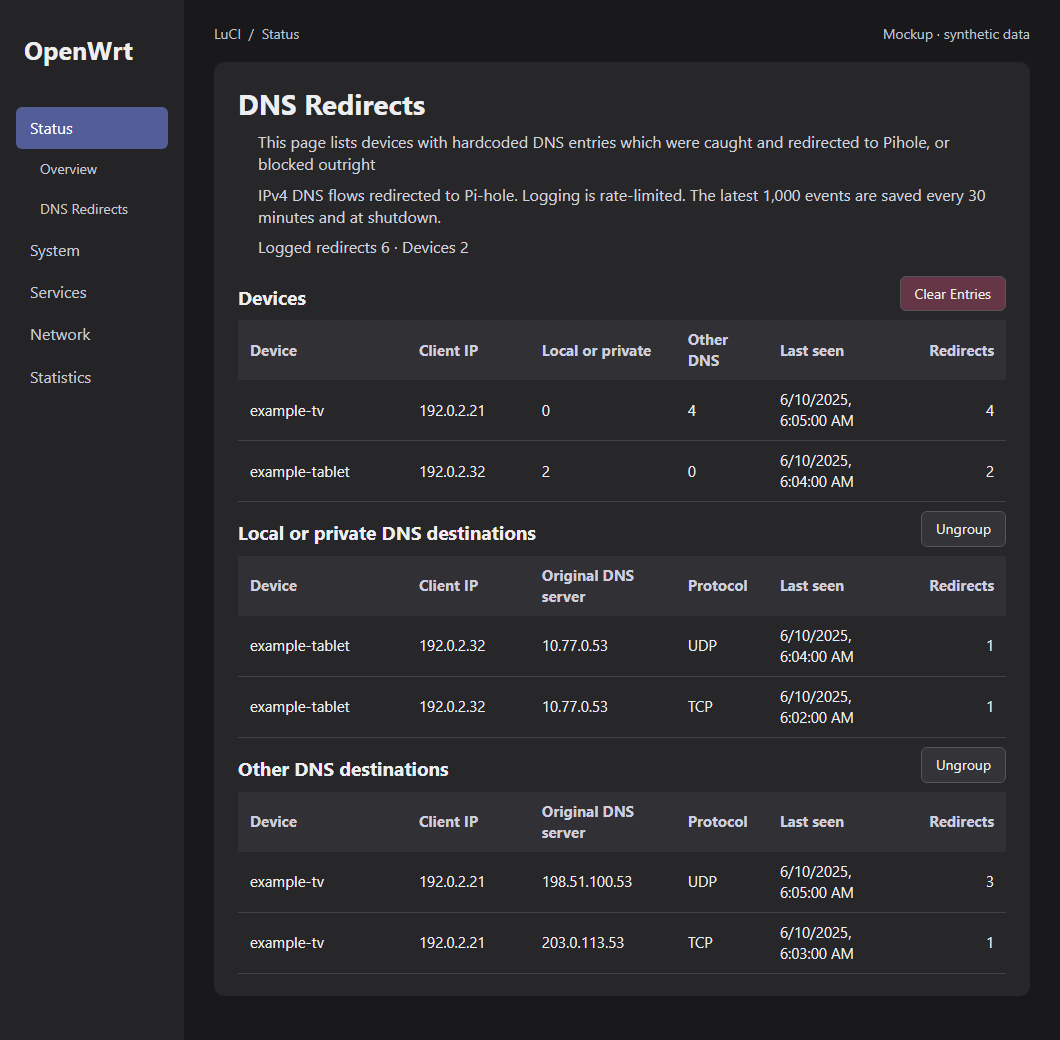
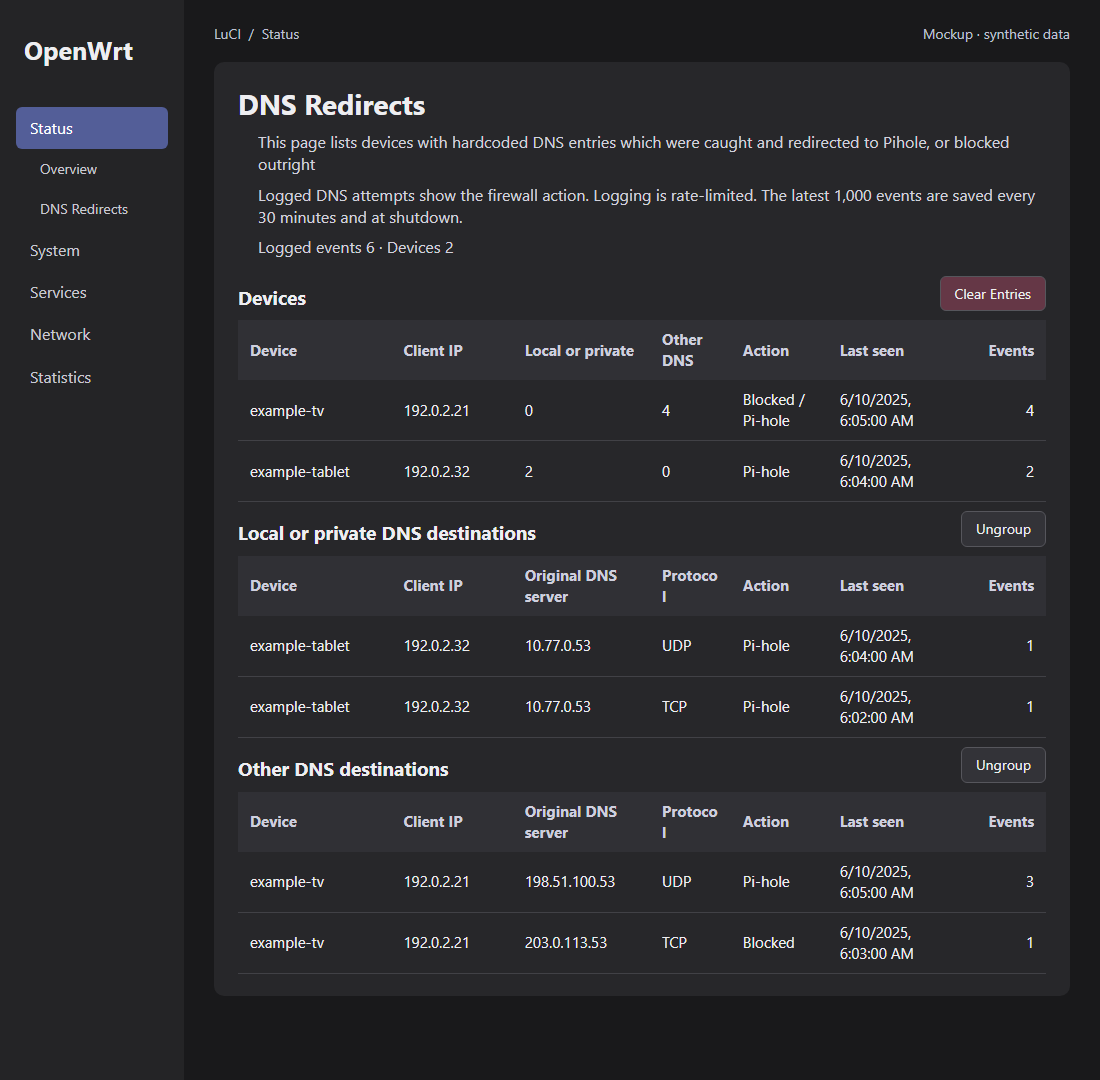
Show DNS redirect and block actions per event and device

diff --git a/argon-tweak/files/www/luci-static/resources/view/status/dns-redirects-layout.js b/argon-tweak/files/www/luci-static/resources/view/status/dns-redirects-layout.js
@@ -12,7 +12,7 @@ const clearHistory = rpc.declare({ object: 'luci.dns_redirects', method: 'clear'
 const headingStyle = 'display: flex; align-items: center; justify-content: space-between; gap: 1em';
 const tableStyle = `
 .dns-redirect-scroll { max-width: 100%; overflow-x: auto; }
-.dns-redirect-scroll table.table { display: table; width: 100%; min-width: 43rem; table-layout: fixed; }
+.dns-redirect-scroll table.table { display: table; width: 100%; min-width: 49rem; table-layout: fixed; }
 .dns-redirect-scroll .table tr { display: table-row; }
 .dns-redirect-scroll .table tr > :is(th, td) { display: table-cell; box-sizing: border-box; text-align: start; white-space: normal; overflow-wrap: anywhere; }
 .dns-redirect-scroll .table tr > :first-child:not([colspan]) { text-align: left !important; }
@@ -21,7 +21,7 @@ const tableStyle = `
 `;
 
 function makeTable(columns) {
-	const widths = ['22%', '16%', '19%', '12%', '19%', '12%'];
+	const widths = ['19%', '15%', '17%', '10%', '12%', '17%', '10%'];
 	return E('table', { 'class': 'table' }, [ E('tr', { 'class': 'tr table-titles' },
 		columns.map((column, i) => E('th', { 'class': 'th', 'scope': 'col', style: 'width:' + widths[i] }, column))) ]);
 }
@@ -31,15 +31,20 @@ function formatTime(time) {
 }
 
 function isLocalDestination(ip) {
+	if (ip.includes(':')) return /^(::1$|f[cd]|fe[89ab])/i.test(ip);
 	const [ first, second ] = ip.split('.').map(Number);
 	return first === 10 || first === 127 || (first === 169 && second === 254) ||
 		(first === 172 && second >= 16 && second <= 31) || (first === 192 && second === 168);
 }
 
+function actionLabel(action) {
+	return action === 'pihole' ? _('Pi-hole') : action === 'blocked' ? _('Blocked') : '—';
+}
+
 function redirectSection(title, names) {
-	const columns = [ _('Device'), _('Client IP'), _('Original DNS server'), _('Protocol') ];
-	const individual = makeTable([ ...columns, _('Time'), _('Redirects') ]);
-	const grouped = makeTable([ ...columns, _('Last seen'), _('Redirects') ]);
+	const columns = [ _('Device'), _('Client IP'), _('Original DNS server'), _('Protocol'), _('Action') ];
+	const individual = makeTable([ ...columns, _('Time'), _('Events') ]);
+	const grouped = makeTable([ ...columns, _('Last seen'), _('Events') ]);
 	const individualBody = E('div', { class: 'dns-redirect-scroll' }, [ individual ]);
 	const groupedBody = E('div', { class: 'dns-redirect-scroll' }, [ grouped ]);
 	groupedBody.hidden = true;
@@ -50,13 +55,13 @@ function redirectSection(title, names) {
 		const table = groupedBody.hidden ? individual : grouped;
 		const rowsToDisplay = [];
 		const groups = new Map();
-		for (const [ time, client, server, protocol ] of rows) {
-			const key = [ client, server, protocol ].join(' ');
+		for (const [ time, client, server, protocol, action ] of rows) {
+			const key = [ client, server, protocol, action ].join(' ');
 			if (table === grouped && groups.has(key)) {
-				groups.get(key)[5]++;
+				groups.get(key)[6]++;
 				continue;
 			}
-			const row = [ E('span', {}, names.get(client) || client), client, server, protocol, formatTime(time), 1 ];
+			const row = [ E('span', {}, names.get(client) || client), client, server, protocol, actionLabel(action), formatTime(time), 1 ];
 			if (table === grouped) {
 				groups.set(key, row);
 			}
@@ -129,7 +134,7 @@ return view.extend({
 					names.set(ip, hint.name);
 		}
 
-		const devices = makeTable([ _('Device'), _('Client IP'), _('Local or private'), _('Other DNS'), _('Last seen'), _('Redirects') ]);
+		const devices = makeTable([ _('Device'), _('Client IP'), _('Local or private'), _('Other DNS'), _('Action'), _('Last seen'), _('Events') ]);
 		const localEvents = redirectSection(_('Local or private DNS destinations'), names);
 		const otherEvents = redirectSection(_('Other DNS destinations'), names);
 		const status = E('p', { 'role': 'status' }, _('Loading redirect history…'));
@@ -147,11 +152,12 @@ return view.extend({
 
 			const entries = history.entries ? history.entries.split('\n').map(line => line.split('\t')) : [];
 			const byDevice = new Map();
-			for (const [ time, client, server ] of entries) {
+			for (const [ time, client, server, , action ] of entries) {
 				if (!byDevice.has(client))
-					byDevice.set(client, { count: 0, local: 0, last: 0 });
+					byDevice.set(client, { count: 0, local: 0, last: 0, actions: new Set() });
 				const device = byDevice.get(client);
 				device.count++;
+				device.actions.add(actionLabel(action));
 				if (isLocalDestination(server))
 					device.local++;
 				device.last = Math.max(device.last, Number(time));
@@ -169,7 +175,7 @@ return view.extend({
 
 			const ordered = Array.from(byDevice.entries()).sort((a, b) => b[1].count - a[1].count || b[1].last - a[1].last);
 			cbi_update_table(devices, ordered.map(([ ip, stats ]) => [
-				E('span', {}, names.get(ip) || ip), ip, stats.local, stats.count - stats.local, formatTime(stats.last), stats.count
+				E('span', {}, names.get(ip) || ip), ip, stats.local, stats.count - stats.local, [...stats.actions].sort().join(' / '), formatTime(stats.last), stats.count
 			]), empty.cloneNode(true));
 			const localRows = [], otherRows = [];
 			for (const entry of entries.reverse()) {
@@ -178,7 +184,7 @@ return view.extend({
 			}
 			localEvents.update(localRows);
 			otherEvents.update(otherRows);
-			dom.content(status, _('Logged redirects') + ' ' + entries.length + ' · ' + _('Devices') + ' ' + byDevice.size);
+			dom.content(status, _('Logged events') + ' ' + entries.length + ' · ' + _('Devices') + ' ' + byDevice.size);
 		}, 5);
 
 		const devicesHeading = E('div', { style: headingStyle }, [
@@ -192,7 +198,7 @@ return view.extend({
 			E('h2', {}, _('DNS Redirects')),
 			E('div', { style: 'padding-inline-start: 1.25rem' }, [
 				E('p', {}, _('This page lists devices with hardcoded DNS entries which were caught and redirected to Pihole, or blocked outright')),
-				E('p', {}, _('IPv4 DNS flows redirected to Pi-hole. Logging is rate-limited. The latest 1,000 events are saved every 30 minutes and at shutdown.')),
+				E('p', {}, _('Logged DNS attempts show the firewall action. Logging is rate-limited. The latest 1,000 events are saved every 30 minutes and at shutdown.')),
 				status
 			]),
 			devicesHeading,

diff --git a/argon-tweak/README.md b/argon-tweak/README.md
@@ -1,6 +1,6 @@
 # luci-theme-argon-tweak installation
 
-Paste the [installation prompt](install-prompt.md) into your LLM assistant to begin. The assistant uses this reference to check compatibility, plan the installation with you and verify the result. Release 3.1.4.3 targets OpenWrt 25.12 LuCI and Argon 3.1.4.
+Paste the [installation prompt](install-prompt.md) into your LLM assistant to begin. The assistant uses this reference to check compatibility, plan the installation with you and verify the result. Release 3.1.4.4 targets OpenWrt 25.12 LuCI and Argon 3.1.4.
 
 When upgrading from an earlier project name, copy your existing overlay settings to `/etc/config/argon-tweak` before installation. Update any existing DNS logging rule to use the prefix in the DNS Redirects section and restart the collector after installation. Fresh installs can skip this step.
 
@@ -29,9 +29,9 @@ Open **Status → Firewall Summary** and select **Refresh** to read the active n
 
 Open **Status → DNS Redirects** to identify clients sending plain DNS to an unexpected resolver. **Devices** shows each client's latest activity and counts for local/private and other DNS destinations. The two event tables show time, device, client IP, original DNS server and TCP or UDP. Use **Group** to combine repeated attempts by client, destination and protocol. **Clear Entries** asks for confirmation and clears saved history as well.
 
-The collector reads tagged IPv4 port 53 firewall events. It records the original destination; the matching firewall rule determines whether the packet was redirected or blocked. For queried domain names and Pi-hole's answer, consult the Pi-hole query log. Encrypted DNS blocks on other ports must be checked in the matching firewall or banIP counters. An empty event table can also mean the client used its assigned resolver, the traffic stayed on the same bridge, or logging was disabled.
+The **Action** column shows **Pi-hole** for a logged DNS redirect and **Blocked** for a logged reject or drop. A device can show both. Grouped rows keep the actions separate even when the client, destination and protocol match. A dash means that the saved event predates action tracking. Use Pi-hole’s query log for domain names and Pi-hole’s own filtering decisions.
 
-To enable history, add a rate-limited log action with the exact prefix `argon-tweak-dns-redirect: ` (including the trailing space) at the point where the original client and destination are still visible, before destination NAT. Apply rate limiting to the **log action only** so all matching packets still reach the enforcement rule. The collector keeps the latest 1,000 logged events and checkpoints every 30 minutes and on clean shutdown. Start it on the router:
+Use the exact log prefix `argon-tweak-dns-redirect: ` on the match leading to Pi-hole destination NAT, and `argon-tweak-dns-block: ` on the match leading to a DNS rejection or drop. Include the trailing space. The collector accepts TCP/UDP port 53 and blocked port 853 events, including IPv6. Apply rate limiting to logging only so every matching packet still reaches the enforcement rule. The collector keeps the latest 1,000 logged events and checkpoints every 30 minutes and on clean shutdown. Start it on the router:
 
 ```sh
 /etc/init.d/dns-redirects enable

diff --git a/argon-tweak/install-prompt.md b/argon-tweak/install-prompt.md
@@ -3,7 +3,7 @@
 Copy the text below into your preferred LLM.
 
 ```text
-Help me install luci-theme-argon-tweak v3.1.4.3. Start here in chat. Use the official release archive at https://api.github.com/repositories/1466932324/tarball/v3.1.4.3 and its argon-tweak/README.md installation reference. Assume Argon is the theme for this setup and its plugin layout audit. First ask me where I can find each item on MY network. Ask a small group of related questions at a time and wait for my answer. If I am unsure, show me a read-only LuCI screen or a narrow local command. Accept "skip" for optional features.
+Help me install luci-theme-argon-tweak v3.1.4.4. Start here in chat. Use the official release archive at https://api.github.com/repositories/1466932324/tarball/v3.1.4.4 and its argon-tweak/README.md installation reference. Assume Argon is the theme for this setup and its plugin layout audit. First ask me where I can find each item on MY network. Ask a small group of related questions at a time and wait for my answer. If I am unsure, show me a read-only LuCI screen or a narrow local command. Accept "skip" for optional features.
 
 1. Where is my router, which OpenWrt, LuCI and Argon versions does it run, and how could I reach it if LuCI went offline?
 2. Where in Network > Interfaces and Devices can I identify WAN, LAN, bridges, VLANs, secondary LANs, VPNs and guests? Which networks share a device and which carry a default route? Confirm any ambiguous roles with me.
@@ -18,7 +18,7 @@ Then ask which DNS protections I want to install. Offer each independently, incl
 - Advertise the approved resolver by DHCP. For clients with hardcoded DNS, redirect both TCP and UDP port 53 or reject external DNS, according to my preference.
 - Block external DNS over TLS on TCP 853 and DNS over QUIC on UDP 853.
 - Install banIP and luci-app-banip if needed and enable an outbound IP feed for known DoH endpoints. Explain the coverage limits and shared-IP tradeoff. Use domain feeds in Pi-hole and IP feeds in banIP.
-- Enable the DNS Redirects collector and rate-limited logging for intercepted IPv4 port 53 traffic.
+- Enable the DNS Redirects collector and rate-limited logging for DNS attempts. Use the guide’s distinct log prefixes for Pi-hole redirects and DNS blocks, and verify the Action column for each policy I selected.
 
 For my choices, confirm the approved resolver, its upstream path, the selected client LANs/VLANs, IPv4/IPv6 use, and VPN or device exceptions. Check whether clients actually send the traffic through this router. Account for the return path to a resolver on the same LAN and preserve its ability to resolve upstream. Check installed packages, the OpenWrt release, firewall backend and available package manager before giving installation commands. Give only the steps for my selections, name the device where each step runs, and provide a rollback for each policy change separately from the overlay rollback.
 

diff --git a/README.md b/README.md
@@ -5,18 +5,18 @@
 **Copy this prompt into your LLM assistant to start setup.**
 
 ```text
-Help me install luci-theme-argon-tweak v3.1.4.3. Read argon-tweak/install-prompt.md in the official release at https://api.github.com/repositories/1466932324/tarball/v3.1.4.3 and follow it with me. Start by asking about my router and the features I want. Show me the plan and wait for my approval before changing anything.
+Help me install luci-theme-argon-tweak v3.1.4.4. Read argon-tweak/install-prompt.md in the official release at https://api.github.com/repositories/1466932324/tarball/v3.1.4.4 and follow it with me. Start by asking about my router and the features I want. Show me the plan and wait for my approval before changing anything.
 ```
 
 If your assistant cannot open the archive, [copy the full setup prompt](argon-tweak/install-prompt.md) into the chat. The assistant guides installation and verification, or performs them with authorized router access.
 
-Release **v3.1.4.3** targets OpenWrt 25.12 and Argon 3.1.4. [Installation reference](argon-tweak/README.md)
+Release **v3.1.4.4** targets OpenWrt 25.12 and Argon 3.1.4. [Installation reference](argon-tweak/README.md)
 
 ### What the tweaks do
 
 - **Status Overview** shows ten-minute WAN and LAN traffic charts, active clients, and gauges for memory and mounted storage. Shared bridges get one traffic chart.
 - **Firewall Summary** groups active rules and lets you search by address, port or rule name and inspect packet counts.
-- **DNS Redirects** groups logged port 53 attempts by device and original resolver. Enable the collector and matching firewall logging to retain history across restarts.
+- **DNS Redirects** shows whether a logged attempt was redirected to Pi-hole or blocked by the firewall. Enable the collector and matching firewall logging to retain history across restarts.
 - **Bandwidth monitoring** adds sortable host and IP columns in nlbwmon, a 30-minute Bandix traffic view and icon buttons for device actions.
 - **System and services** adds process metrics and controls, organizes the Dynamic DNS page, labels interface roles in Watchcat and explains collectd settings.
 - **LuCI usability** adjusts app permissions and keeps touch dropdowns such as the banIP feed picker within view.
